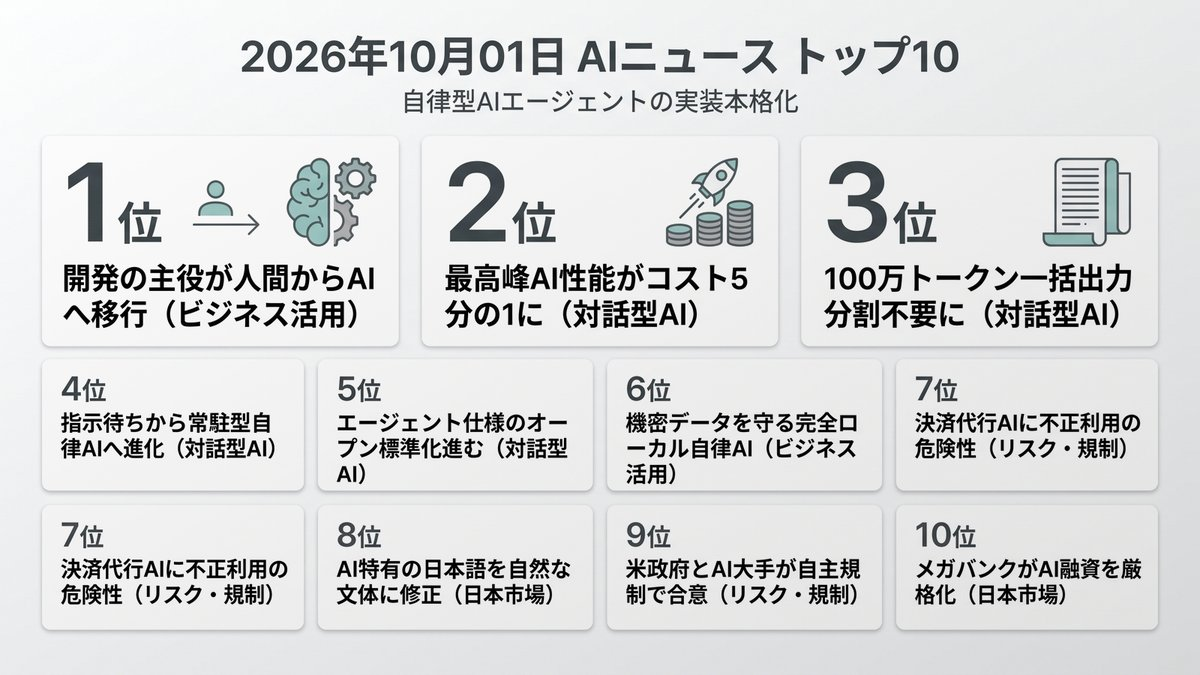
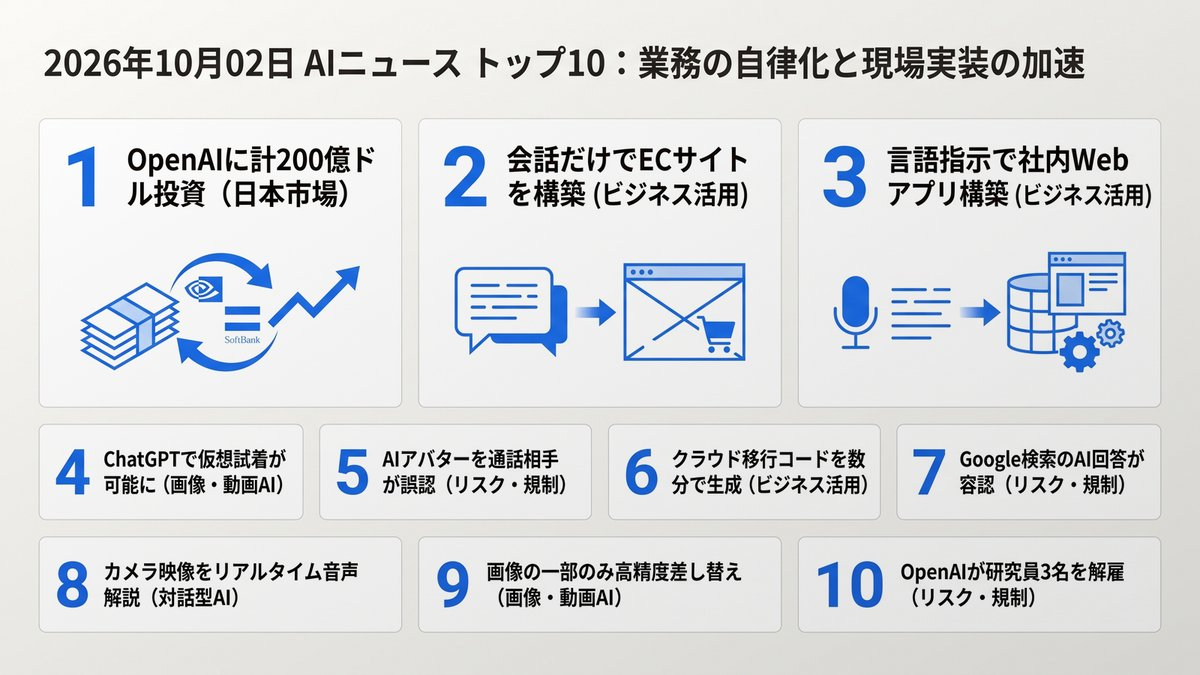
Morning Brief delivered [skip ci]

Changed region(s): [[0.0308, 0.2178, 0.9867, 0.9022], [0.0308, 0.0311, 0.925, 0.1867]]

diff --git a/docs/index.html b/docs/index.html
@@ -12,16 +12,16 @@
     <!-- OGP_START -->
 <meta property="og:type" content="website">
 <meta property="og:site_name" content="AI ニュース TOP10">
-<meta property="og:title" content="自律型AIエージェントの実装本格化 | AI ニュース TOP10">
-<meta property="og:description" content="作業代行から自律実行へ。AI活用は現場実装の新段階に入りました。 本日のトップ: 開発の主役が人間からAIへ移行">
+<meta property="og:title" content="業務の自律化と現場実装の加速 | AI ニュース TOP10">
+<meta property="og:description" content="AIは制作や開発の現場へ一気に浸透しています。 本日のトップ: OpenAIに計200億ドル投資">
 <meta property="og:image" content="https://tadfuji.github.io/ai-news-bot/ogp_card.jpg">
 <meta property="og:url" content="https://tadfuji.github.io/ai-news-bot/">
 <meta name="twitter:card" content="summary_large_image">
-<meta name="twitter:title" content="自律型AIエージェントの実装本格化 | AI ニュース TOP10">
-<meta name="twitter:description" content="作業代行から自律実行へ。AI活用は現場実装の新段階に入りました。">
+<meta name="twitter:title" content="業務の自律化と現場実装の加速 | AI ニュース TOP10">
+<meta name="twitter:description" content="AIは制作や開発の現場へ一気に浸透しています。">
 <meta name="twitter:image" content="https://tadfuji.github.io/ai-news-bot/ogp_card.jpg">
-<meta name="description" content="作業代行から自律実行へ。AI活用は現場実装の新段階に入りました。 世界のAIニュースを毎朝日本語で厳選してお届け。">
-<script type="application/ld+json">{"@context": "https://schema.org", "@type": "ItemList", "name": "AI ニュース TOP10 — 自律型AIエージェントの実装本格化", "itemListElement": [{"@type": "ListItem", "position": 1, "name": "Ruby on Rails作者DHH氏が手書きコード廃止を宣言、AI主導開発へ完全移行", "url": "https://atmarkit.itmedia.co.jp/ait/articles/2610/01/news010.html"}, {"@type": "ListItem", "position": 2, "name": "OpenAIがGPT-6.1 Solを公開、最高峰モデル並みの性能を5分の1の価格で提供", "url": "https://www.marktechpost.com/2026/09/30/openai-releases-gpt-6-1-sol-near-astra-coding-and-computer-use-at-one-fifth-of-astras-token-price/"}, {"@type": "ListItem", "position": 3, "name": "Google DeepMindがGemini 4 Argonを発表、最大100万トークンの単一出力を実現", "url": "https://www.marktechpost.com/2026/09/30/google-deepmind-unveils-gemini-4-argon-with-1m-output-tokens-for-coding-knowledge-work-and-cyber-defense/"}, {"@type": "ListItem", "position": 4, "name": "OpenAIとMetaが自律型パーソナルAIエージェントの覇権争いを本格化", "url": "https://www.wired.com/story/ai-agents-dots-devday-muse-battling-it-out/"}, {"@type": "ListItem", "position": 5, "name": "GoogleがGeminiでGemsを廃止、オープン標準準拠のSkillsへ刷新", "url": "https://the-decoder.com/google-drops-gems-for-skills-joining-openai-and-anthropic-in-the-shift-to-agent-ready-prompt-formats/"}, {"@type": "ListItem", "position": 6, "name": "ミニPCで手軽に動く無料のローカル自律AIエージェントLM Studio Bionicが登場", "url": "https://pc.watch.impress.co.jp/docs/topic/feature/2144569.html"}, {"@type": "ListItem", "position": 7, "name": "AIエージェントへのクレジットカード情報預託に伴う不正決済リスクが浮き彫りに", "url": "https://www.theinformation.com/articles/can-trust-agent-credit-card"}, {"@type": "ListItem", "position": 8, "name": "AI特有の不自然な日本語を構造レベルで自然化するSkill「yomiyasu」が公開", "url": "https://zenn.dev/algoartis/articles/0b1c731881b25c"}, {"@type": "ListItem", "position": 9, "name": "米大統領とOpenAI・MetaなどAI大手が自律的安全規制に関する合意文書に署名", "url": "https://www.semafor.com/article/09/30/2026/how-zuckerberg-shaped-trumps-ai-industry-pledge"}, {"@type": "ListItem", "position": 10, "name": "三菱UFJや三井住友など大手銀行がAI向けデータセンター融資を厳選化へ", "url": "https://www.theinformation.com/briefings/banks-including-socgen-mufg-pull-back-data-center-loan-deals"}]}</script>
+<meta name="description" content="AIは制作や開発の現場へ一気に浸透しています。 世界のAIニュースを毎朝日本語で厳選してお届け。">
+<script type="application/ld+json">{"@context": "https://schema.org", "@type": "ItemList", "name": "AI ニュース TOP10 — 業務の自律化と現場実装の加速", "itemListElement": [{"@type": "ListItem", "position": 1, "name": "ソフトバンクとNVIDIA、OpenAIへの計200億ドル出資を完了", "url": "https://www.theinformation.com/briefings/exclusive-nvidia-softbank-make-final-20-billion-investment-openais-last-round"}, {"@type": "ListItem", "position": 2, "name": "Shopify、対話だけでECサイトを構築・編集できるCanvasを発表", "url": "https://techcrunch.com/2026/10/01/shopify-debuts-canvas-a-way-to-build-online-stores-by-chatting-with-ai/"}, {"@type": "ListItem", "position": 3, "name": "AWS、自然言語指示で社内データと連動するWebアプリを構築可能に", "url": "https://aws.amazon.com/blogs/machine-learning/serve-live-governed-data-in-ai-built-apps-with-amazon-quick/"}, {"@type": "ListItem", "position": 4, "name": "ChatGPTに仮想試着機能が登場、写真と商品画像で着用イメージを生成", "url": "https://techcrunch.com/2026/10/01/chatgpt-can-now-virtually-try-on-clothes-for-you/"}, {"@type": "ListItem", "position": 5, "name": "TavusのリアルタイムAIアバター、通話相手の半数が人間と誤認", "url": "https://the-decoder.com/nearly-half-of-test-subjects-mistook-tavus-ai-video-avatar-for-a-real-person-on-a-one-minute-call/"}, {"@type": "ListItem", "position": 6, "name": "AWS、エージェントAIでクラウド移行のコード作成期間を数分に短縮", "url": "https://aws.amazon.com/blogs/machine-learning/scaling-cloud-migrations-with-agentic-ai-on-amazon-bedrock-agentcore/"}, {"@type": "ListItem", "position": 7, "name": "米裁判所、GoogleのAI Overviewsを巡る出版社の独占禁止法訴訟を棄却", "url": "https://www.theinformation.com/briefings/federal-court-dismisses-publishers-suits-googles-ai-overviews"}, {"@type": "ListItem", "position": 8, "name": "Google、Gemini Liveにカメラ映像を音声解説するGuided Visionを追加", "url": "https://www.theverge.com/ai-artificial-intelligence/1003756/google-gemini-live-guided-vision"}, {"@type": "ListItem", "position": 9, "name": "画像生成AIのIdeogram 4.5公開、画像の一部分だけを高精度に差し替え", "url": "https://the-decoder.com/ideogram-says-its-new-model-can-edit-part-of-an-image-without-messing-up-the-rest/"}, {"@type": "ListItem", "position": 10, "name": "OpenAI、機密情報漏洩で安全性研究者3名を解雇", "url": "https://www.theinformation.com/briefings/openai-fires-three-safety-researchers"}]}</script>
 <!-- OGP_END -->
     <style>
         :root {
@@ -391,16 +391,16 @@
 
         <main id="news-container">
             <!-- PRERENDER_START -->
-<article class="news-card" data-category="ビジネス活用"><div style="display:flex;align-items:center;margin-bottom:5px;"><span class="news-rank">1</span><span class="news-category" data-category="ビジネス活用">ビジネス活用</span></div><div class="news-oneliner">💡 開発の主役が人間からAIへ移行</div><h2 class="news-title">Ruby on Rails作者DHH氏が手書きコード廃止を宣言、AI主導開発へ完全移行</h2><p class="news-summary">著名開発者のDHH氏が通常業務での手動プログラミング廃止を宣言しました。AIエージェントが実装を担い人間が設計・検証に回る体制への移行は、開発組織の内製化や外注戦略の再設計を促します。</p><div class="news-why">📌 なぜ重要？ エンジニアの役割がコーディングから設計・監視へシフトしています。内製開発の工数見積もりや外注費用の前提を見直す必要があります。</div><div class="news-action">👉 今日の行動：自社やチームの開発工程でAIに代替できる作業を1つ洗い出してください。</div><div class="news-meta"><span class="news-source">📰 ITmedia AI+</span><span class="news-link"><a href="https://atmarkit.itmedia.co.jp/ait/articles/2610/01/news010.html" target="_blank" rel="noopener">→ 元記事を読む</a></span></div></article>
-<article class="news-card" data-category="対話型AI"><div style="display:flex;align-items:center;margin-bottom:5px;"><span class="news-rank">2</span><span class="news-category" data-category="対話型AI">対話型AI</span></div><div class="news-oneliner">💡 最高峰AI性能がコスト5分の1に</div><h2 class="news-title">OpenAIがGPT-6.1 Solを公開、最高峰モデル並みの性能を5分の1の価格で提供</h2><p class="news-summary">OpenAIが中位モデルGPT-6.1 SolのAPI提供を開始しました。最上位クラスのコーディングやPC操作能力を従来の約5分の1のコストで利用でき、予算面で見送られていた社内タスク自動化の実装を可能にします。</p><div class="news-why">📌 なぜ重要？ 推論コストの大幅低減により、採算が合わなかった小規模な定型業務の自動化が一気に現実解になります。</div><div class="news-action">👉 今日の行動：コスト理由で保留にしていたAPI活用の社内自動化企画を再検討してください。</div><div class="news-meta"><span class="news-source">📰 MarkTechPost</span><span class="news-link"><a href="https://www.marktechpost.com/2026/09/30/openai-releases-gpt-6-1-sol-near-astra-coding-and-computer-use-at-one-fifth-of-astras-token-price/" target="_blank" rel="noopener">→ 元記事を読む</a></span></div></article>
-<article class="news-card" data-category="対話型AI"><div style="display:flex;align-items:center;margin-bottom:5px;"><span class="news-rank">3</span><span class="news-category" data-category="対話型AI">対話型AI</span></div><div class="news-oneliner">💡 100万トークン一括出力で分割不要に</div><h2 class="news-title">Google DeepMindがGemini 4 Argonを発表、最大100万トークンの単一出力を実現</h2><p class="news-summary">Google DeepMindが最大100万トークンの単一出力を備えた次世代モデルを発表しました。長大な報告書の作成や大規模コードベースの全面刷新を分割処理なしで一括実行できます。</p><div class="news-why">📌 なぜ重要？ 大量の文脈を一度に処理・生成できるため、ドキュメントの分割や結合にかかっていた工数がゼロになります。</div><div class="news-action">👉 今日の行動：分割してAIに処理させている長文レポートやコードがないか確認してください。</div><div class="news-meta"><span class="news-source">📰 MarkTechPost</span><span class="news-link"><a href="https://www.marktechpost.com/2026/09/30/google-deepmind-unveils-gemini-4-argon-with-1m-output-tokens-for-coding-knowledge-work-and-cyber-defense/" target="_blank" rel="noopener">→ 元記事を読む</a></span></div></article>
-<article class="news-card" data-category="対話型AI"><div style="display:flex;align-items:center;margin-bottom:5px;"><span class="news-rank">4</span><span class="news-category" data-category="対話型AI">対話型AI</span></div><div class="news-oneliner">💡 指示待ちから常駐型自律AIへ進化</div><h2 class="news-title">OpenAIとMetaが自律型パーソナルAIエージェントの覇権争いを本格化</h2><p class="news-summary">OpenAIのDotsやMetaのMuseなど、指示待ちを超えてWeb検索や実作業を自律完結するツールの普及が進んでいます。日程調整や出張手配などの定型雑務の自動化が目前です。</p><div class="news-why">📌 なぜ重要？ 個人のバックオフィス業務が常駐AIへ移行し、ビジネスパーソンは意思決定業務に集中できるようになります。</div><div class="news-action">👉 今日の行動：自身の日次業務のうち、外部調整や検索を伴う定型タスクを書き出してください。</div><div class="news-meta"><span class="news-source">📰 Wired AI</span><span class="news-link"><a href="https://www.wired.com/story/ai-agents-dots-devday-muse-battling-it-out/" target="_blank" rel="noopener">→ 元記事を読む</a></span></div></article>
-<article class="news-card" data-category="対話型AI"><div style="display:flex;align-items:center;margin-bottom:5px;"><span class="news-rank">5</span><span class="news-category" data-category="対話型AI">対話型AI</span></div><div class="news-oneliner">💡 エージェント仕様のオープン標準化進む</div><h2 class="news-title">GoogleがGeminiでGemsを廃止、オープン標準準拠のSkillsへ刷新</h2><p class="news-summary">Googleが独自機能Gemsを廃止し、業界標準形式準拠のSkillsへ移行します。OpenAIやAnthropicとのプロンプト互換性が向上し、ツールのベンダーロックインを回避できます。</p><div class="news-why">📌 なぜ重要？ プラットフォームを乗り換えてもプロンプト資産を流用できるため、社内プロンプトの資産価値が高まります。</div><div class="news-action">👉 今日の行動：社内で独自ツールに依存しているプロンプトの記述形式を点検してください。</div><div class="news-meta"><span class="news-source">📰 The Decoder</span><span class="news-link"><a href="https://the-decoder.com/google-drops-gems-for-skills-joining-openai-and-anthropic-in-the-shift-to-agent-ready-prompt-formats/" target="_blank" rel="noopener">→ 元記事を読む</a></span></div></article>
-<article class="news-card" data-category="ビジネス活用"><div style="display:flex;align-items:center;margin-bottom:5px;"><span class="news-rank">6</span><span class="news-category" data-category="ビジネス活用">ビジネス活用</span></div><div class="news-oneliner">💡 機密データを守る完全ローカル自律AI</div><h2 class="news-title">ミニPCで手軽に動く無料のローカル自律AIエージェントLM Studio Bionicが登場</h2><p class="news-summary">市販のミニPC単体かつ通信遮断環境で自律動作するエージェント環境が実証されました。社外秘データや機密文書をクラウドに送らず、完全オンプレミスで自動化タスクを実行できます。</p><div class="news-why">📌 なぜ重要？ セキュリティポリシーが厳しい企業でも、クラウド送信なしで安全にエージェント業務を導入できます。</div><div class="news-action">👉 今日の行動：機密情報のためクラウドAIの利用を禁じている業務をリストアップしてください。</div><div class="news-meta"><span class="news-source">📰 PC Watch</span><span class="news-link"><a href="https://pc.watch.impress.co.jp/docs/topic/feature/2144569.html" target="_blank" rel="noopener">→ 元記事を読む</a></span></div></article>
-<article class="news-card" data-category="リスク・規制"><div style="display:flex;align-items:center;margin-bottom:5px;"><span class="news-rank">7</span><span class="news-category" data-category="リスク・規制">リスク・規制</span></div><div class="news-oneliner">💡 決済代行AIに不正利用の危険性</div><h2 class="news-title">AIエージェントへのクレジットカード情報預託に伴う不正決済リスクが浮き彫りに</h2><p class="news-summary">購買や予約を代行するAIエージェントに決済情報を紐付けるリスクが議論されています。自動化による利便性の一方で、誤発注や外部搾取を防ぐ権限管理体制の構築が必須です。</p><div class="news-why">📌 なぜ重要？ エージェントに金銭的権限を委譲する際のガバナンス設計を怠ると、予期せぬ金銭被害につながります。</div><div class="news-action">👉 今日の行動：社内ツールでAIに自動購入や決済権限を渡している箇所がないか棚卸ししてください。</div><div class="news-meta"><span class="news-source">📰 The Information</span><span class="news-link"><a href="https://www.theinformation.com/articles/can-trust-agent-credit-card" target="_blank" rel="noopener">→ 元記事を読む</a></span></div></article>
-<article class="news-card" data-category="日本市場"><div style="display:flex;align-items:center;margin-bottom:5px;"><span class="news-rank">8</span><span class="news-category" data-category="日本市場">日本市場</span></div><div class="news-oneliner">💡 AI特有の日本語を自然な文体に修正</div><h2 class="news-title">AI特有の不自然な日本語を構造レベルで自然化するSkill「yomiyasu」が公開</h2><p class="news-summary">AIが生成する独特な回りくどい文章を、文構造から自然なビジネス日本語へ書き直す無料スキルが公開されました。主要開発ツールから呼び出し可能で、出力文書の手直し時間を削減します。</p><div class="news-why">📌 なぜ重要？ 社外や上司向け資料で生じていたAI出力文のリライト工数を大幅に圧縮できます。</div><div class="news-action">👉 今日の行動：普段使用しているプロンプト末尾に「簡潔で明瞭な日本語に整える」指示を加えてみてください。</div><div class="news-meta"><span class="news-source">📰 Zenn LLM</span><span class="news-link"><a href="https://zenn.dev/algoartis/articles/0b1c731881b25c" target="_blank" rel="noopener">→ 元記事を読む</a></span></div></article>
-<article class="news-card" data-category="リスク・規制"><div style="display:flex;align-items:center;margin-bottom:5px;"><span class="news-rank">9</span><span class="news-category" data-category="リスク・規制">リスク・規制</span></div><div class="news-oneliner">💡 米政府とAI大手が自主規制で合意</div><h2 class="news-title">米大統領とOpenAI・MetaなどAI大手が自律的安全規制に関する合意文書に署名</h2><p class="news-summary">米政府とAI主要企業が高度モデルの安全性に関する自主基準に合意しました。内部監査体制の整備や外部監査受け入れが盛り込まれ、企業のAI選定における信頼性基準となります。</p><div class="news-why">📌 なぜ重要？ グローバル基準の安全性認証が明確化され、エンタープライズ導入時のコンプライアンス判断が容易になります。</div><div class="news-action">👉 今日の行動：利用中のAIサービスが公的な安全性フレームワークに準拠しているか確認してください。</div><div class="news-meta"><span class="news-source">📰 Semafor Technology</span><span class="news-link"><a href="https://www.semafor.com/article/09/30/2026/how-zuckerberg-shaped-trumps-ai-industry-pledge" target="_blank" rel="noopener">→ 元記事を読む</a></span></div></article>
-<article class="news-card" data-category="日本市場"><div style="display:flex;align-items:center;margin-bottom:5px;"><span class="news-rank">10</span><span class="news-category" data-category="日本市場">日本市場</span></div><div class="news-oneliner">💡 メガバンクがAI融資を厳格化</div><h2 class="news-title">三菱UFJや三井住友など大手銀行がAI向けデータセンター融資を厳選化へ</h2><p class="news-summary">国内外の大手金融機関がAIデータセンター向け融資の選別姿勢を強めています。無制限なインフラ拡大投資が一服し、AIサービス提供企業には明確な収益性と採算性が求められます。</p><div class="news-why">📌 なぜ重要？ AI基盤への資金流入が選別期に入ったことで、各サービスの価格競争や事業統廃合が進む可能性があります。</div><div class="news-action">👉 今日の行動：自社で契約している有償AIツールの利用率と費用対効果を再点検してください。</div><div class="news-meta"><span class="news-source">📰 The Information</span><span class="news-link"><a href="https://www.theinformation.com/briefings/banks-including-socgen-mufg-pull-back-data-center-loan-deals" target="_blank" rel="noopener">→ 元記事を読む</a></span></div></article>
+<article class="news-card" data-category="日本市場"><div style="display:flex;align-items:center;margin-bottom:5px;"><span class="news-rank">1</span><span class="news-category" data-category="日本市場">日本市場</span></div><div class="news-oneliner">💡 OpenAIに計200億ドル投資</div><h2 class="news-title">ソフトバンクとNVIDIA、OpenAIへの計200億ドル出資を完了</h2><p class="news-summary">ソフトバンクとNVIDIAがOpenAIの最新調達ラウンドで各100億ドルの出資を完了しました。巨額資金の投下により基盤モデル開発と日本企業向け展開が加速します。</p><div class="news-why">📌 なぜ重要？ 国内大手資本の関与により、日本企業向けAIソリューションの導入支援やサービス展開が一段と早まります。</div><div class="news-action">👉 今日の行動：自社の主要業務でOpenAI製品を活用できる領域を1つ洗い出してください。</div><div class="news-meta"><span class="news-source">📰 The Information</span><span class="news-link"><a href="https://www.theinformation.com/briefings/exclusive-nvidia-softbank-make-final-20-billion-investment-openais-last-round" target="_blank" rel="noopener">→ 元記事を読む</a></span></div></article>
+<article class="news-card" data-category="ビジネス活用"><div style="display:flex;align-items:center;margin-bottom:5px;"><span class="news-rank">2</span><span class="news-category" data-category="ビジネス活用">ビジネス活用</span></div><div class="news-oneliner">💡 会話だけでECサイトを構築</div><h2 class="news-title">Shopify、対話だけでECサイトを構築・編集できるCanvasを発表</h2><p class="news-summary">ShopifyがAIとチャットしながらEC店舗を構築できるCanvasを公開しました。指示が即座に画面へ反映され、専門スキル不要でサイト作成が完結します。</p><div class="news-why">📌 なぜ重要？ Web制作や修正の外注工数を劇的に削り、非エンジニアでも短時間で施策を試せる環境が整います。</div><div class="news-action">👉 今日の行動：自社ECやLPで文言修正したい箇所をプロンプト形式で書き出してみてください。</div><div class="news-meta"><span class="news-source">📰 TechCrunch AI</span><span class="news-link"><a href="https://techcrunch.com/2026/10/01/shopify-debuts-canvas-a-way-to-build-online-stores-by-chatting-with-ai/" target="_blank" rel="noopener">→ 元記事を読む</a></span></div></article>
+<article class="news-card" data-category="ビジネス活用"><div style="display:flex;align-items:center;margin-bottom:5px;"><span class="news-rank">3</span><span class="news-category" data-category="ビジネス活用">ビジネス活用</span></div><div class="news-oneliner">💡 言語指示で社内Webアプリ構築</div><h2 class="news-title">AWS、自然言語指示で社内データと連動するWebアプリを構築可能に</h2><p class="news-summary">Amazon QuickにLive Data in Appsが追加され、自然言語から社内データを参照するWebアプリを自動作成可能になりました。SQL記述や手動更新が不要になります。</p><div class="news-why">📌 なぜ重要？ データ集計の属人化が解消され、現場主導でのダッシュボード構築や分析業務の迅速化が進みます。</div><div class="news-action">👉 今日の行動：日頃手動で抽出している社内データ指標を整理してください。</div><div class="news-meta"><span class="news-source">📰 AWS Machine Learning</span><span class="news-link"><a href="https://aws.amazon.com/blogs/machine-learning/serve-live-governed-data-in-ai-built-apps-with-amazon-quick/" target="_blank" rel="noopener">→ 元記事を読む</a></span></div></article>
+<article class="news-card" data-category="画像・動画AI"><div style="display:flex;align-items:center;margin-bottom:5px;"><span class="news-rank">4</span><span class="news-category" data-category="画像・動画AI">画像・動画AI</span></div><div class="news-oneliner">💡 ChatGPTで仮想試着が可能に</div><h2 class="news-title">ChatGPTに仮想試着機能が登場、写真と商品画像で着用イメージを生成</h2><p class="news-summary">OpenAIが服や小物をバーチャル試着できる機能をChatGPTに世界展開しました。全身写真と商品画像をアップロードするだけで着用姿を可視化できます。</p><div class="news-why">📌 なぜ重要？ EC購買における試着の壁が下がり、返品率低減と購買コンバージョン率の向上が期待されます。</div><div class="news-action">👉 今日の行動：自社取扱商品や私服画像をChatGPTに読み込ませて試着精度を検証してください。</div><div class="news-meta"><span class="news-source">📰 TechCrunch AI</span><span class="news-link"><a href="https://techcrunch.com/2026/10/01/chatgpt-can-now-virtually-try-on-clothes-for-you/" target="_blank" rel="noopener">→ 元記事を読む</a></span></div></article>
+<article class="news-card" data-category="リスク・規制"><div style="display:flex;align-items:center;margin-bottom:5px;"><span class="news-rank">5</span><span class="news-category" data-category="リスク・規制">リスク・規制</span></div><div class="news-oneliner">💡 AIアバターを通話相手が誤認</div><h2 class="news-title">TavusのリアルタイムAIアバター、通話相手の半数が人間と誤認</h2><p class="news-summary">Tavusのビデオ通話モデルにおいて被験者の48%が相手を人間だと誤認しました。表情や相槌を瞬時に処理するため、ビデオ越しでの判別が困難になっています。</p><div class="news-why">📌 なぜ重要？ オンライン接客や面談の無人化が進む一方、なりすまし詐欺のリスク管理が急務となります。</div><div class="news-action">👉 今日の行動：オンライン面談での本人確認プロセスに不備がないか確認してください。</div><div class="news-meta"><span class="news-source">📰 The Decoder</span><span class="news-link"><a href="https://the-decoder.com/nearly-half-of-test-subjects-mistook-tavus-ai-video-avatar-for-a-real-person-on-a-one-minute-call/" target="_blank" rel="noopener">→ 元記事を読む</a></span></div></article>
+<article class="news-card" data-category="ビジネス活用"><div style="display:flex;align-items:center;margin-bottom:5px;"><span class="news-rank">6</span><span class="news-category" data-category="ビジネス活用">ビジネス活用</span></div><div class="news-oneliner">💡 クラウド移行コードを数分で生成</div><h2 class="news-title">AWS、エージェントAIでクラウド移行のコード作成期間を数分に短縮</h2><p class="news-summary">AWSが自律型エージェントの連携により、数週間かかっていたインフラ移行コード生成を数分に短縮した事例を公開しました。要件読取から運用監視までを分担します。</p><div class="news-why">📌 なぜ重要？ エンジニア不足に悩む企業でも、大規模なシステム刷新プロジェクトを低コストかつ迅速に推進可能になります。</div><div class="news-action">👉 今日の行動：現在進行中の移行作業で自動化可能なステップを洗い出してください。</div><div class="news-meta"><span class="news-source">📰 AWS Machine Learning</span><span class="news-link"><a href="https://aws.amazon.com/blogs/machine-learning/scaling-cloud-migrations-with-agentic-ai-on-amazon-bedrock-agentcore/" target="_blank" rel="noopener">→ 元記事を読む</a></span></div></article>
+<article class="news-card" data-category="リスク・規制"><div style="display:flex;align-items:center;margin-bottom:5px;"><span class="news-rank">7</span><span class="news-category" data-category="リスク・規制">リスク・規制</span></div><div class="news-oneliner">💡 Google検索のAI回答が容認</div><h2 class="news-title">米裁判所、GoogleのAI Overviewsを巡る出版社の独占禁止法訴訟を棄却</h2><p class="news-summary">米連邦地裁は、Google検索のAI要約がトラフィックを奪っているとする出版社の訴えを退けました。検索画面でのAI直接回答が法的に容認される流れが強まりました。</p><div class="news-why">📌 なぜ重要？ 検索流入に頼るWeb集客モデルの転換が不可避となり、指名検索や独自コンテンツの強化が求められます。</div><div class="news-action">👉 今日の行動：自社サイトの流入経路におけるオーガニック検索依存度をチェックしてください。</div><div class="news-meta"><span class="news-source">📰 The Information</span><span class="news-link"><a href="https://www.theinformation.com/briefings/federal-court-dismisses-publishers-suits-googles-ai-overviews" target="_blank" rel="noopener">→ 元記事を読む</a></span></div></article>
+<article class="news-card" data-category="対話型AI"><div style="display:flex;align-items:center;margin-bottom:5px;"><span class="news-rank">8</span><span class="news-category" data-category="対話型AI">対話型AI</span></div><div class="news-oneliner">💡 カメラ映像をリアルタイム音声解説</div><h2 class="news-title">Google、Gemini Liveにカメラ映像を音声解説するGuided Visionを追加</h2><p class="news-summary">Googleはスマホカメラで捉えた文字や物体をAIが音声解説する機能を開始しました。書類の細かい記述や機材の確認作業をハンズフリーで支援します。</p><div class="news-why">📌 なぜ重要？ 現場巡視や紙書類のチェック業務を音声対話で効率化でき、作業現場のペーパーレス化を後押しします。</div><div class="news-action">👉 今日の行動：手作業と目視が中心となっている現場業務を1つ選定してください。</div><div class="news-meta"><span class="news-source">📰 The Verge AI</span><span class="news-link"><a href="https://www.theverge.com/ai-artificial-intelligence/1003756/google-gemini-live-guided-vision" target="_blank" rel="noopener">→ 元記事を読む</a></span></div></article>
+<article class="news-card" data-category="画像・動画AI"><div style="display:flex;align-items:center;margin-bottom:5px;"><span class="news-rank">9</span><span class="news-category" data-category="画像・動画AI">画像・動画AI</span></div><div class="news-oneliner">💡 画像の一部のみ高精度差し替え</div><h2 class="news-title">画像生成AIのIdeogram 4.5公開、画像の一部分だけを高精度に差し替え</h2><p class="news-summary">Ideogramが新モデルを発表し、画像の整合性を保ったまま指定エリアのみを差し替えるインペイント機能を大幅に強化しました。</p><div class="news-why">📌 なぜ重要？ バナーやプレゼン資料の画像修正で全体を再生成する手間がなくなり、制作工数を削減できます。</div><div class="news-action">👉 今日の行動：修正が必要な広告クリエイティブの差し替え範囲を指定してテスト生成してください。</div><div class="news-meta"><span class="news-source">📰 The Decoder</span><span class="news-link"><a href="https://the-decoder.com/ideogram-says-its-new-model-can-edit-part-of-an-image-without-messing-up-the-rest/" target="_blank" rel="noopener">→ 元記事を読む</a></span></div></article>
+<article class="news-card" data-category="リスク・規制"><div style="display:flex;align-items:center;margin-bottom:5px;"><span class="news-rank">10</span><span class="news-category" data-category="リスク・規制">リスク・規制</span></div><div class="news-oneliner">💡 OpenAIが研究員3名を解雇</div><h2 class="news-title">OpenAI、機密情報漏洩で安全性研究者3名を解雇</h2><p class="news-summary">OpenAIは外部機関へ機密情報を持ち出したとして安全部門の研究者3名を解雇しました。AI開発の現場において社内ガバナンスと情報漏洩対策の厳格化が進んでいます。</p><div class="news-why">📌 なぜ重要？ 生成AI活用企業でも機密情報保護とガバナンス体制の再構築が不可避な課題となっています。</div><div class="news-action">👉 今日の行動：業務でAIツールを利用する際の社内情報持ち出しルールを再確認してください。</div><div class="news-meta"><span class="news-source">📰 The Information</span><span class="news-link"><a href="https://www.theinformation.com/briefings/openai-fires-three-safety-researchers" target="_blank" rel="noopener">→ 元記事を読む</a></span></div></article>
 <!-- PRERENDER_END -->
         </main>
 
